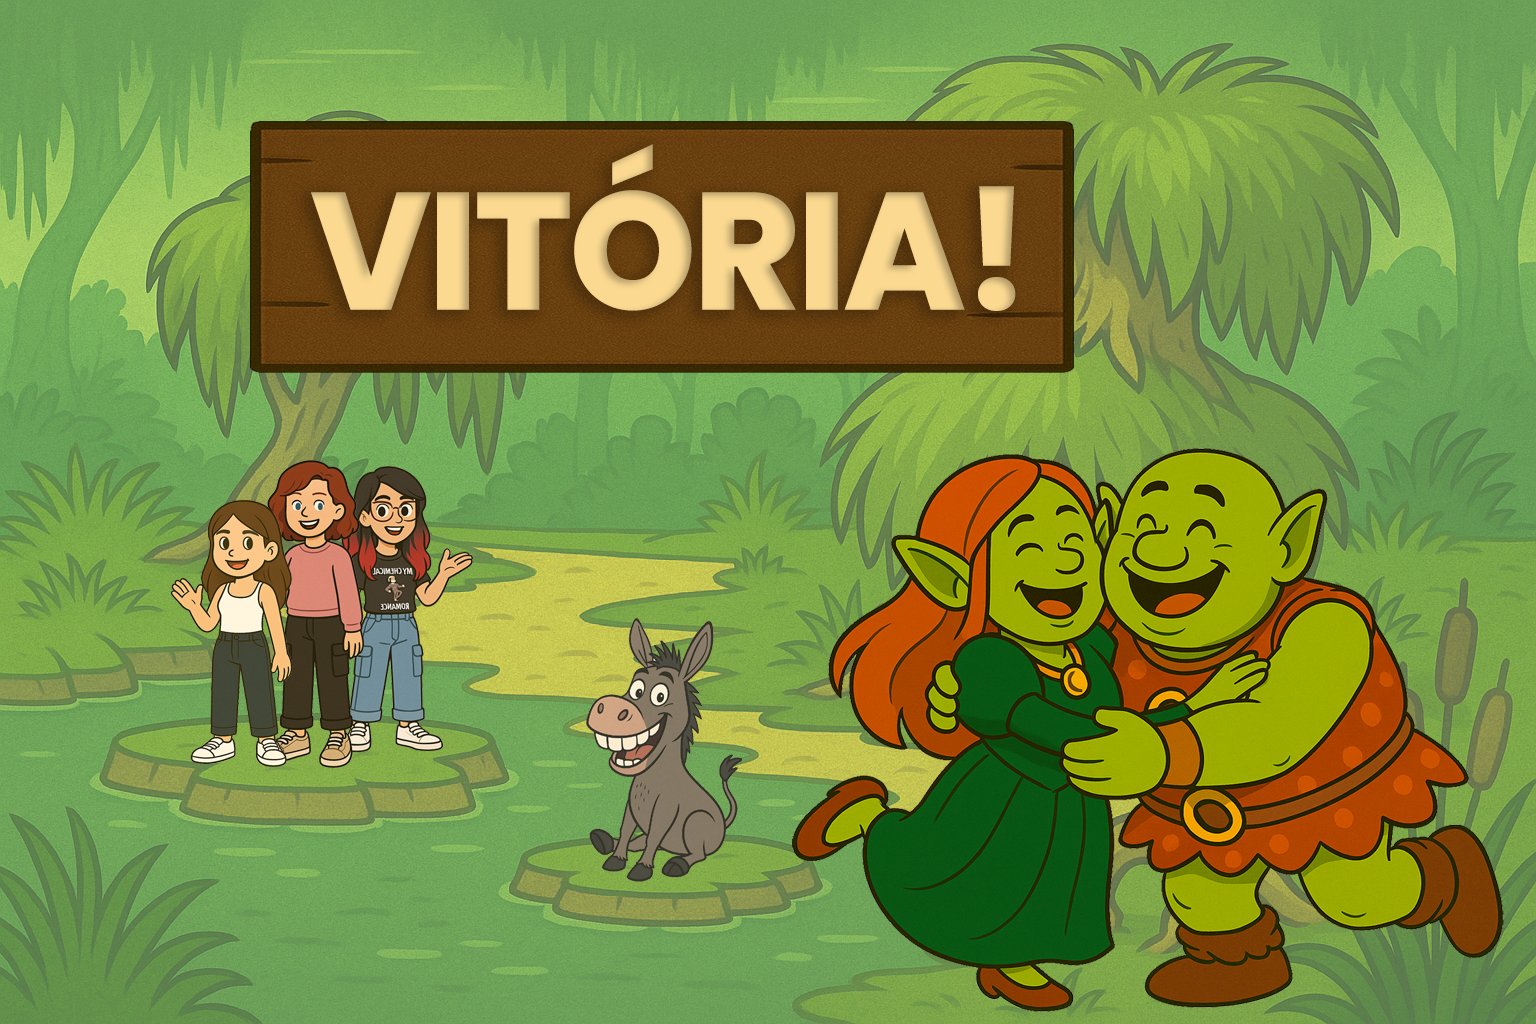
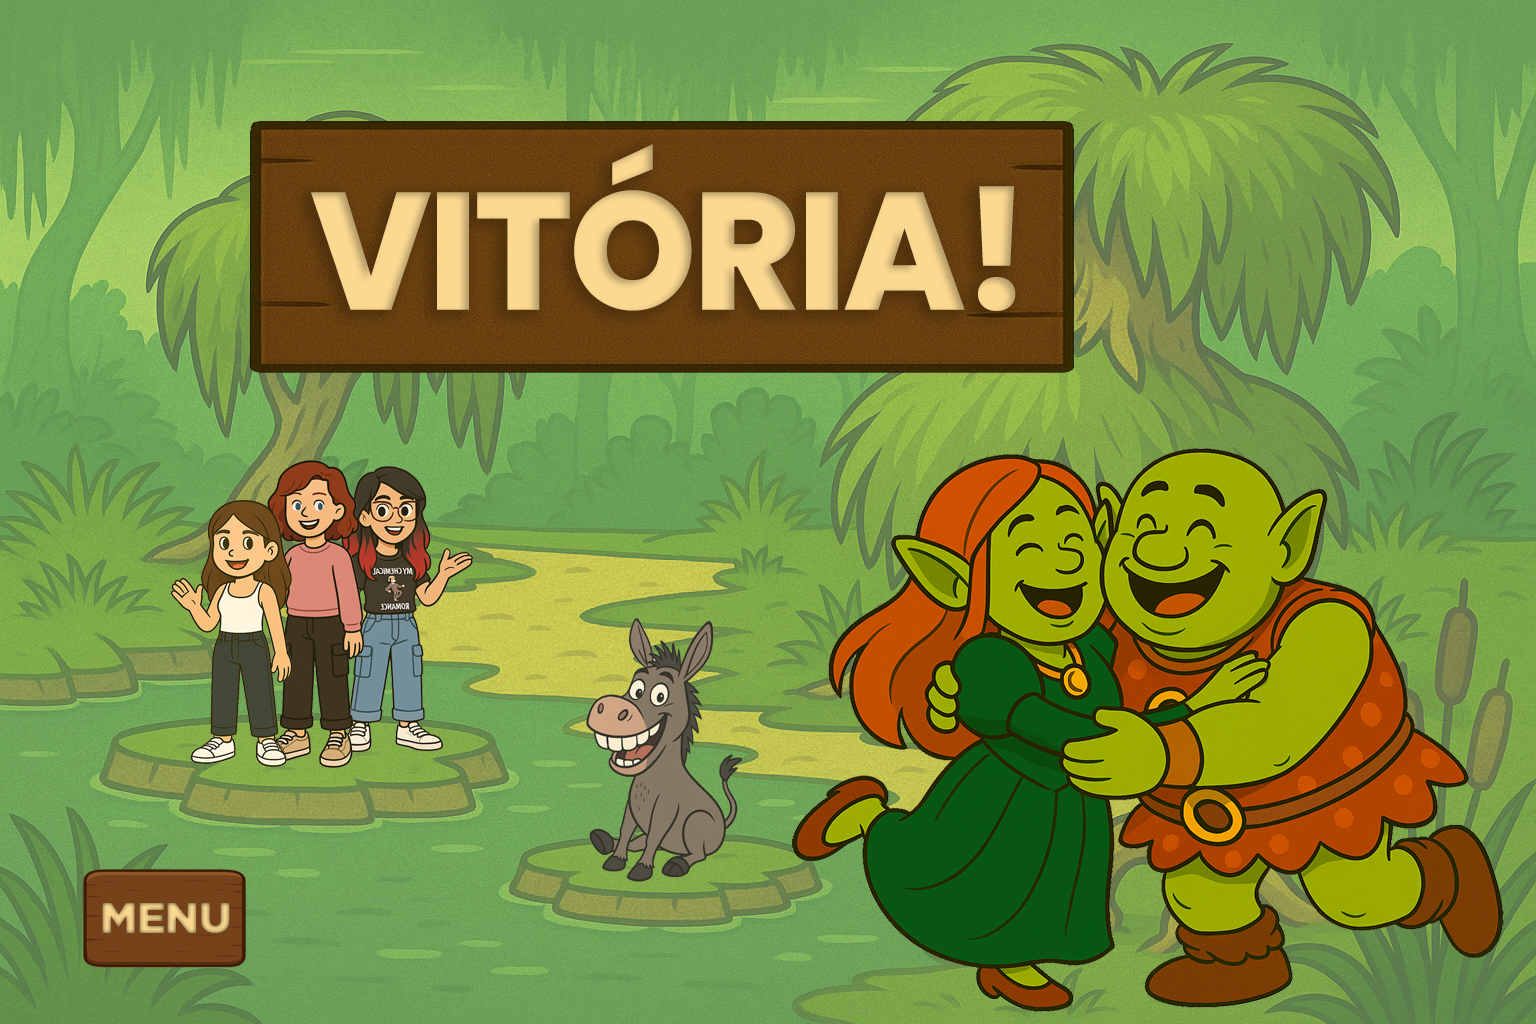
simplifica lógica de verificação e adiciona tela de transicao

Changed region(s): [[0.0312, 0.8438, 0.1875, 0.9688]]

diff --git a/src/main/resources/styles/menu_style.css b/src/main/resources/styles/menu_style.css
@@ -1,23 +1,10 @@
 /* resources/styles/menu_style.css */
 
-/* Novo estilo para botões invisíveis */
 .transparent-button {
     -fx-background-color: transparent; /* Fundo transparente */
     -fx-border-color: transparent;     /* Borda transparente */
     -fx-padding: 0;                    /* Sem preenchimento interno */
     -fx-text-fill: transparent;        /* Texto (se houver) também transparente */
     -fx-cursor: hand;
-}
-
-/* Opcional: Efeito hover para feedback visual (opcional) */
-.transparent-button:hover {
-    -fx-opacity: 0.2; /* Pequena opacidade para mostrar que é clicável */
-    /* Ou, se quiser, -fx-cursor: hand; */ /* Muda o cursor para uma mão */
-}
-
-.transparent-button:pressed {
-    -fx-scale-x: 0.98;
-    -fx-scale-y: 0.98;
-    -fx-opacity: 0.5; /* Um pouco mais visível ao pressionar */
 }
 

diff --git a/src/main/resources/styles/transicao1_style.css b/src/main/resources/styles/transicao1_style.css
@@ -1,18 +1,9 @@
 /* src/main/resources/styles/game_style.css */
 
-.debug-button {
-    -fx-background-color: rgba(0, 0, 255, 0.5); /* Azul semi-transparente */
-    -fx-border-color: yellow;
-    -fx-border-width: 3px;
-    -fx-padding: 0;
-    -fx-text-fill: white;
-    -fx-cursor: hand;
-}
-
 .transparent-button {
-    -fx-background-color: transparent;
-    -fx-border-color: transparent;
-    -fx-padding: 0;
-    -fx-text-fill: transparent;
+    -fx-background-color: transparent; /* Fundo transparente */
+    -fx-border-color: transparent;     /* Borda transparente */
+    -fx-padding: 0;                    /* Sem preenchimento interno */
+    -fx-text-fill: transparent;        /* Texto (se houver) também transparente */
     -fx-cursor: hand;
 }

diff --git a/src/main/java/menu/MainApplication.java b/src/main/java/menu/MainApplication.java
@@ -14,13 +14,13 @@ public class MainApplication extends Application {
 
     @Override
     public void start(Stage stage) throws IOException {
-        mainStage = stage; // Armazena o Stage principal
+        mainStage = stage; // stage principal
 
-        // carrega o FXML do menu principal
+        // carregando o FXML do menu principal
         FXMLLoader fxmlLoader = new FXMLLoader(getClass().getResource("/menu/menu-principal-view.fxml"));
 
         //tamanho da janela
-        Scene scene = new Scene(fxmlLoader.load(), 1236, 804); // Exemplo: 800 largura, 600 altura
+        Scene scene = new Scene(fxmlLoader.load(), 1236, 804); //
 
         //icone do jar
         Image icon = new Image(getClass().getResourceAsStream("/icones/icone2.png"));
@@ -28,30 +28,24 @@ public class MainApplication extends Application {
 
         mainStage.setTitle("Tão Tão Dançante"); //título da janela
         mainStage.setScene(scene);
-        mainStage.setResizable(false); //impede que o usuário redimensione a janela
+        mainStage.setResizable(false); //não pode redimensionar a janela
         mainStage.show();
     }
 
-    // metodo para mudar para a tela do jogo (ainda não implementado, mas é o próximo passo)
-    // este metodo seria chamado de dentro do MenuController.
-    // public void showGameScreen() throws IOException {
-    //     // Exemplo:
-    //     // FXMLLoader fxmlLoader = new FXMLLoader(getClass().getResource("game/game-view.fxml"));
-    //     // Scene gameScene = new Scene(fxmlLoader.load(), 800, 600);
-    //     // mainStage.setScene(gameScene);
-    //     // mainStage.setTitle("Tão Tão Dançante - Jogo");
-    // }
-
-    public static void main(String[] args) {
-        launch(); // Inicia a aplicação JavaFX
+    public static void showTransicao1Screen() throws IOException {
+        FXMLLoader fxmlLoader = new FXMLLoader(MainApplication.class.getResource("/transicao1/transicao1-view.fxml"));
+        Scene transicao1Scene = new Scene(fxmlLoader.load(), 1236, 804);
+        mainStage.setScene(transicao1Scene);;
     }
 
-    // Se precisar acessar o Stage principal ou métodos desta classe de outros controllers
+    public static void main(String[] args) {
+        launch();
+    }
+
     public static Stage getMainStage() {
         return mainStage;
     }
 
-    // Opcional: Se você quiser um getInstance para a própria aplicação (menos comum para o Stage)
     private static MainApplication instance;
     public MainApplication() {
         instance = this;

diff --git a/src/main/java/menu/MenuController.java b/src/main/java/menu/MenuController.java
@@ -5,7 +5,9 @@ import javafx.scene.control.Button;
 import javafx.event.ActionEvent;
 import javafx.application.Platform;
 
-public class MenuController {
+import java.io.IOException;
+
+public class MenuController extends IOException {
 
     @FXML
     private Button startButton;
@@ -15,25 +17,23 @@ public class MenuController {
 
     @FXML
     private void handleStartButtonAction(ActionEvent event) {
-        System.out.println("Botão COMEÇAR clicado!");
-        // Lógica para iniciar o jogo ou ir para a próxima tela
-        // Ex: menu.MainApplication.getMainStage().setScene(new GameScene());
+        try {
+            MainApplication.showTransicao1Screen();
+        } catch (IOException e) {
+            e.printStackTrace();
+        }
     }
 
     @FXML
     private void handleExitButtonAction(ActionEvent event) {
-        System.out.println("Botão SAIR clicado!");
         Platform.exit();
     }
 
     @FXML
     private void initialize() {
-        // Se o CSS está funcionando, essas linhas podem ser removidas daqui.
-        // Elas garantem transparência caso o CSS não seja aplicado por algum motivo.
         startButton.setStyle("-fx-background-color: transparent; -fx-padding: 0; -fx-border-color: transparent;");
         exitButton.setStyle("-fx-background-color: transparent; -fx-padding: 0; -fx-border-color: transparent;");
 
-        // Garante que não haja texto visível no botão
         startButton.setText("");
         exitButton.setText("");
     }

diff --git a/src/main/java/transicao1/Transicao1Controller.java b/src/main/java/transicao1/Transicao1Controller.java
@@ -1,22 +1,37 @@
-package transicao1; // Pacote do novo controller
+package transicao1;
 
 import javafx.fxml.FXML;
 import javafx.scene.control.Button;
 import javafx.event.ActionEvent;
+import javafx.fxml.FXMLLoader;
+import javafx.scene.Parent;
+import javafx.scene.Scene;
+import javafx.scene.Node;
+import javafx.stage.Stage;
+import java.io.IOException;
+
 
 public class Transicao1Controller {
 
     @FXML
-    private Button danceButton; // O botão "CLIQUE PARA DANÇAR" do FXML
+    private Button menuVoltarButton;
+    @FXML
+    private Button comecarButton;
 
     @FXML
-    private void initialize() {
-        System.out.println("Cena Transicao1 (transicao.png) carregada!");
+    private void handleMenuVoltarButtonClick(ActionEvent event) {
+        try {
+            FXMLLoader loader = new FXMLLoader(getClass().getResource("/menu/menu-principal-view.fxml"));
+            Parent root = loader.load();
+
+            Stage stage = (Stage) ((Node) event.getSource()).getScene().getWindow();
+            stage.setScene(new Scene(root));
+            stage.show();
+        } catch (IOException e) {
+            e.printStackTrace();
+        }
     }
-
     @FXML
-    private void handleDanceButtonClick(ActionEvent event) {
-        System.out.println("CLIQUE PARA DANÇAR! AÇÃO DE DANÇA!");
-        // AQUI você colocaria a lógica para a próxima fase do jogo
+    private void handleComecarButtonClick(ActionEvent event) {
     }
 }
